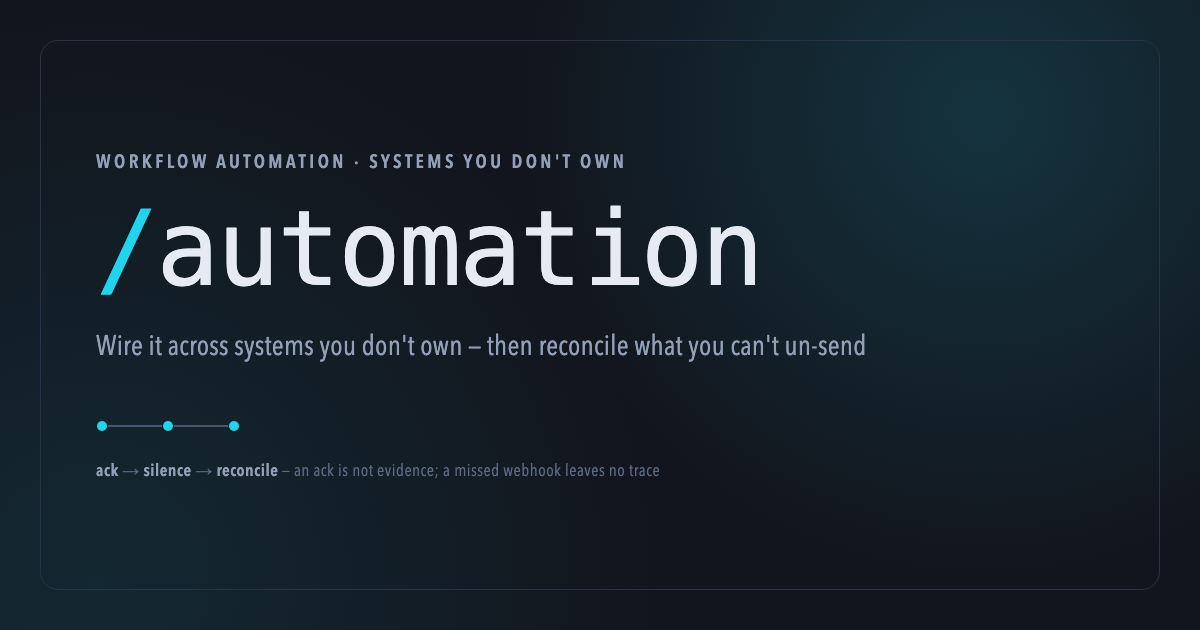
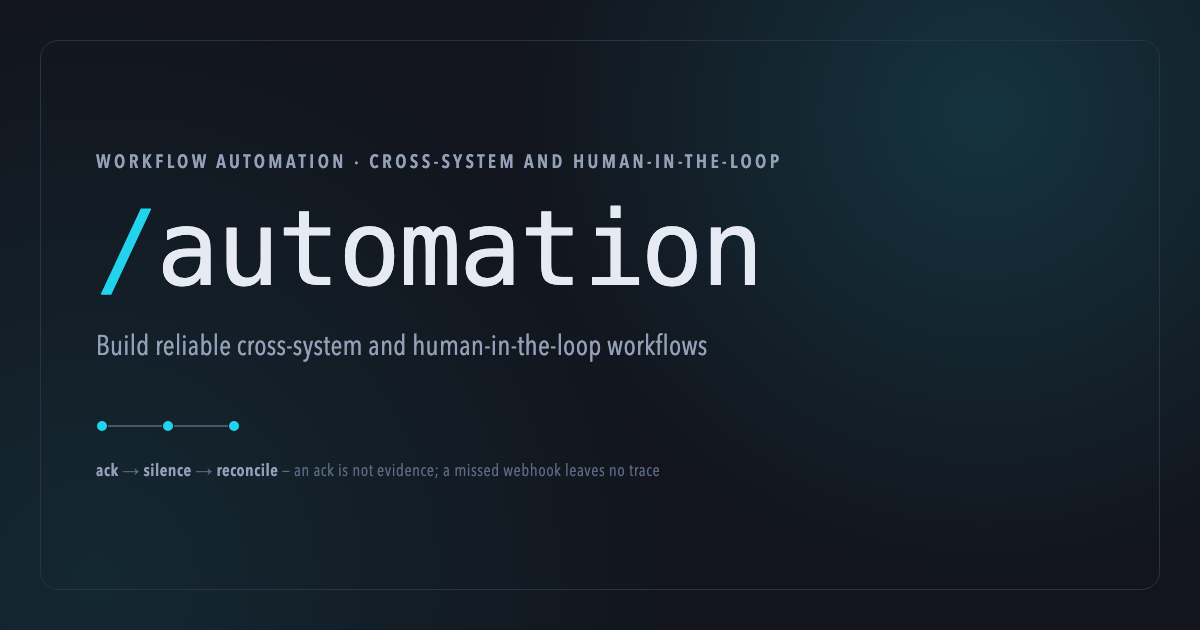
docs(automation): v0.1.2 — reposition storefront and site
Leads with the subject (build reliable cross-system and human-in-the-loop
processes) instead of the backend-boundary argument; names the four platform
tiers once as scope (Zapier/Make, n8n/Windmill/Activepieces/Kestra,
Temporal/Inngest/Restate/Step Functions, cron); introduces the flagship in
plain language before the word reconciliation.

Restores human-in-the-loop as co-equal with cross-system, per the family's
own canonical declaration. No reference file changed.

Claude-Session: https://claude.ai/code/session_011U8C4MVmndcV899s2zieTg

Changed region(s): [[0.0617, 0.5127, 0.74, 0.573], [0.3083, 0.2413, 0.6475, 0.2714]]

diff --git a/site/index.html b/site/index.html
@@ -12,15 +12,15 @@
 <meta name="viewport" content="width=device-width, initial-scale=1, viewport-fit=cover">
 <meta name="theme-color" media="(prefers-color-scheme: light)" content="#f6f7fa">
 <meta name="theme-color" media="(prefers-color-scheme: dark)" content="#12151d">
-<title>automation — Wire it across systems you don't own — then reconcile what you can't un-send</title>
-<meta name="description" content="A faceted agent skill for workflow automation — reconciliation against a vendor's authoritative state, idempotency and compensation, multi-vendor credentials, human approval, triggers, sync, observability, quota, and platform choice. Defaults to a solo operator with no second pair of eyes; the agentic overlay is additive, never assumed. 12 jobs across 4 surfaces plus the overlay and a handoff — flagship is reconciliation, because an ack is not evidence and a webhook that never arrived leaves no trace.">
+<title>automation — build reliable cross-system and human-in-the-loop workflows</title>
+<meta name="description" content="A faceted agent skill for workflow automation — the workflow that fires when a customer upgrades, the nightly sync between two SaaS tools, the refund that waits for someone to approve it, the cron job nobody has checked in six months. Spans hosted iPaaS (Zapier, Make), self-hosted engines (n8n, Windmill, Activepieces, Kestra), code-first durable execution (Temporal, Inngest, Restate, Step Functions), and plain cron. A step may belong to a vendor you cannot deploy to, and a step may be a person — you cannot deploy a fix into someone else's system, and you cannot un-send. 12 jobs across 4 surfaces plus an additive agentic overlay — flagship is reconciliation, proving what actually happened against the vendor's own state.">
 <meta name="robots" content="index, follow">
 <link rel="canonical" href="https://automation-skill.vercel.app/">
 <link rel="icon" href="/favicon.svg" type="image/svg+xml">
 
 <meta property="og:type" content="website">
-<meta property="og:title" content="automation — Wire it across systems you don't own — then reconcile what you can't un-send">
-<meta property="og:description" content="You cannot deploy a fix into someone else's system, and you cannot un-send. 12 jobs across 4 surfaces plus an additive agentic overlay — reconciled against the vendor's own state, never your record of what you told it.">
+<meta property="og:title" content="automation — build reliable cross-system and human-in-the-loop workflows">
+<meta property="og:description" content="The workflow that fires on a customer upgrade, the nightly sync between two tools, the refund waiting on approval, the cron job nobody's checked in months. Spans Zapier/Make, n8n/Windmill, Temporal/Inngest, and cron. A step may belong to a vendor you can't deploy to, and a step may be a person — you cannot deploy a fix into someone else's system, and you cannot un-send.">
 <meta property="og:url" content="https://automation-skill.vercel.app/">
 <meta property="og:image" content="https://automation-skill.vercel.app/og.png">
 <meta property="og:image:width" content="1200">
@@ -28,8 +28,8 @@
 <meta property="og:site_name" content="automation">
 
 <meta name="twitter:card" content="summary_large_image">
-<meta name="twitter:title" content="automation — Wire it across systems you don't own — then reconcile what you can't un-send">
-<meta name="twitter:description" content="Deploy is theirs, not yours. Reconcile against the vendor's own state, never your record of what you told it. Solo/small-team is the default reader; the agentic overlay is additive.">
+<meta name="twitter:title" content="automation — build reliable cross-system and human-in-the-loop workflows">
+<meta name="twitter:description" content="Cross-system processes where a step may belong to a vendor you can't deploy to, and a step may be a person. 12 jobs across 4 surfaces plus an additive agentic overlay — flagship is reconciliation: proving what actually happened, not what a webhook claimed.">
 <meta name="twitter:image" content="https://automation-skill.vercel.app/og.png">
 
 <script type="application/ld+json">
@@ -39,7 +39,7 @@
   "name": "automation",
   "applicationCategory": "DeveloperApplication",
   "operatingSystem": "Claude Code / agent CLIs",
-  "description": "A faceted agent skill for workflow automation — processes spanning systems you do not own. Reconciliation against a vendor's authoritative state (flagship), integration reliability and delivery semantics, compensation and recovery, multi-vendor credential fleets, human approval and timeout policy, trigger design, sync semantics, workflow observability, cost and quota, platform selection, workflow testing, and process capture. Covers hosted iPaaS, self-hosted engine, code-first durable execution, and platform-native surfaces, plus an additive agentic overlay for when a model is a step or the trigger. Defaults to a solo operator or small team with no second pair of eyes. Not for jobs/queues inside a system you control, model cognition, the analytical data plane, deployment and monitoring, or independent verification — those route to backend, ai, data, operate, and quality respectively.",
+  "description": "A faceted agent skill for workflow automation — reliable cross-system and human-in-the-loop processes: the workflow that fires when a customer upgrades, the nightly sync between two SaaS tools, the refund that waits for someone to approve it, the cron job nobody has checked in six months. Reconciliation against a vendor's authoritative state (flagship), integration reliability and delivery semantics, compensation and recovery, multi-vendor credential fleets, human approval and timeout policy, trigger design, sync semantics, workflow observability, cost and quota, platform selection, workflow testing, and process capture. Covers hosted iPaaS, self-hosted engine, code-first durable execution, and platform-native surfaces, plus an additive agentic overlay for when a model is a step or the trigger. Defaults to a solo operator or small team with no second pair of eyes. Not for jobs/queues inside a system you control, model cognition, the analytical data plane, deployment and monitoring, or independent verification — those route to backend, ai, data, operate, and quality respectively.",
   "url": "https://automation-skill.vercel.app/",
   "offers": {
     "@type": "Offer",
@@ -172,7 +172,8 @@
   .tblwrap{overflow-x:auto; border:1px solid var(--line); border-radius:8px; margin-top:20px}
   table{border-collapse:collapse; width:100%; font-size:14px; background:var(--panel)}
   th{font-family:"Avenir Next Condensed","Arial Narrow",system-ui,sans-serif; text-transform:uppercase; letter-spacing:.08em; font-size:12.5px; font-weight:600; text-align:left; color:var(--muted); padding:10px 16px; border-bottom:1px solid var(--line)}
-  td{padding:11px 16px; border-bottom:1px solid var(--line); vertical-align:top; overflow-wrap:break-word; word-break:break-word}
+  td{padding:11px 16px; border-bottom:1px solid var(--line); vertical-align:top; overflow-wrap:break-word}
+  @media (max-width:700px){ .tblwrap table{width:auto; min-width:640px} }
   tr:last-child td{border-bottom:none}
   td code{background:var(--code-bg); padding:1px 6px; border-radius:4px; font-size:12.5px; white-space:nowrap}
   td code a{color:inherit; text-decoration:none}
@@ -338,19 +339,22 @@
 </svg>
 <div class="wrap">
 <header>
-  <div class="eyebrow">an agent skill · workflow automation — the Build stage, spanning what you don't own</div>
+  <div class="eyebrow">an agent skill · workflow automation — cross-system and human-in-the-loop</div>
   <nav class="toplinks" aria-label="external links">
     <a href="https://github.com/gabros20/automation-skill" target="_blank" rel="noopener">GitHub</a>
     <a href="https://github.com/gabros20/automation-skill#install" target="_blank" rel="noopener">Install</a>
     <a href="/llms.txt">llms.txt</a>
   </nav>
   <h1><span class="sl">/</span>automation</h1>
-  <p class="lede">Ask an agent to wire Stripe to your CRM and it writes the webhook handler, watches it
-  return <code>200</code>, and calls the integration done. Nobody checked whether the vendor's side
-  still holds what you think it holds, what a refund actually undoes, or what happens when the
-  approval gate times out at 3am with nobody watching. <b>automation</b> builds the processes that
-  span vendors — credentials, triggers, sync, approval, cost — on the property every technique here
-  has to survive: <b>you cannot deploy a fix into someone else's system, and you cannot un-send.</b></p>
+  <p class="lede"><b>automation</b> builds the workflow that fires when a customer upgrades, the
+  nightly sync between two SaaS tools, the refund that waits for someone to approve it, and the cron
+  job nobody has checked in six months. It owns the decisions, not the click-path: whether to automate
+  a thing at all, which platform to build it on, what triggers it, what order the steps run in, who
+  approves the risky one, and how you learn it stopped — across hosted iPaaS (Zapier, Make),
+  self-hosted engines (n8n, Windmill), code-first durable execution (Temporal, Inngest), and plain
+  cron. Two properties shape every technique here: a step may belong to a vendor you cannot deploy
+  to, and a step may be a person — hence <b>you cannot deploy a fix into someone else's system, and
+  you cannot un-send.</b></p>
   <div class="term" style="margin-top:22px"><span class="c"># natural language — no flags, no fixed pipeline</span>
 <span class="p">/automation</span> the Stripe charge succeeded but the CRM record never got created — was the webhook ever sent?</div>
   <p class="hosts"><span class="hl">runs on</span><span class="ref">Claude Code</span><span>Codex</span><span>Cursor</span><span>Antigravity</span><span>opencode</span><span>Grok Build</span><span>Hermes</span></p>
@@ -608,12 +612,17 @@
 
 <section id="flagship">
   <h2><svg class="lu" aria-hidden="true"><use href="#lu-scale"/></svg>Reconciliation — the flagship</h2>
-  <p>Everything else in this pack assumes a reconciliation loop exists somewhere, or states plainly
-  that it does not. <b>I1 is the spine: reconcile against the vendor's authoritative state, never
-  against your own record of what you told it.</b> A 200 response, a queued job, a webhook
-  subscription you believe is active — none of these are evidence the vendor's side actually holds
-  what you think it holds. A webhook that never arrives leaves no trace in your logs at all — nothing
-  failed loudly, so there is nothing to notice.</p>
+  <p>Ask an agent to wire Stripe to your CRM and it writes the webhook handler, watches it return
+  <code>200</code>, and calls the integration done. Nobody checked whether the vendor's side still
+  holds what you think it holds, what a refund actually undoes, or what happens when the approval
+  gate times out at 3am with nobody watching. Closing that gap — proving what actually happened, not
+  what a 200 response or your own "handled" flag claims happened — is reconciliation, and everything
+  else in this pack assumes a reconciliation loop exists somewhere, or states plainly that it does
+  not. <b>I1 is the spine: reconcile against the vendor's authoritative state, never against your own
+  record of what you told it.</b> A 200 response, a queued job, a webhook subscription you believe is
+  active — none of these are evidence the vendor's side actually holds what you think it holds. A
+  webhook that never arrives leaves no trace in your logs at all — nothing failed loudly, so there is
+  nothing to notice.</p>
   <div class="tblwrap"><table>
     <tr><th>Signal</th><th>What it actually establishes</th><th>What it does <b>not</b></th></tr>
     <tr><td class="job">A 200 response</td><td class="canon">The vendor accepted the request, at that moment</td><td class="prod">That the vendor's side still holds it later, or that nothing downstream reversed it</td></tr>
@@ -875,7 +884,7 @@ README.md · CHANGELOG.md · LICENSE</div>
 </section>
 
 <footer>
-  <span><span class="mono">/automation</span> — Wire it across systems you don't own — then reconcile what you can't un-send</span>
+  <span><span class="mono">/automation</span> — build reliable cross-system and human-in-the-loop workflows</span>
   <span><a href="https://github.com/gabros20/automation-skill">github.com/gabros20/automation-skill</a> · <a href="/llms.txt">llms.txt</a> · MIT</span>
 </footer>
 </div>

diff --git a/site/og-source.html b/site/og-source.html
@@ -50,9 +50,9 @@
 <body>
   <div class="frame"></div>
   <div class="content">
-    <div class="eyebrow">workflow automation · systems you don't own</div>
+    <div class="eyebrow">workflow automation · cross-system and human-in-the-loop</div>
     <h1><span class="sl">/</span>automation</h1>
-    <div class="sub">Wire it across systems you don't own — then reconcile what you can't un-send</div>
+    <div class="sub">Build reliable cross-system and human-in-the-loop workflows</div>
     <div class="chain">
       <svg width="420" height="34" viewBox="0 0 420 34" aria-hidden="true">
         <circle cx="6" cy="17" r="5" fill="#22d3ee"/>

diff --git a/README.md b/README.md
@@ -1,84 +1,18 @@
 # automation — Workflow Automation
 
-**Wire it across systems you don't own — then reconcile what you can't un-send.**
+Build reliable cross-system and human-in-the-loop processes: the workflow that fires when a customer
+upgrades, the nightly sync between two SaaS tools, the refund that waits for someone to approve it, the
+cron job nobody has checked in six months.
 
-`automation` is the **Build** stage of the [Digital Product Skills](https://github.com/gabros20) family, a
-peer of `frontend`/`backend`/`data`/`ai`, for building business processes that span systems you cannot
-deploy to: Stripe, a CRM, email, Slack, a partner's API, a human approver. The distinguishing property
-is the substrate. `backend` owns async work inside a system you control — your queue, your workers, your
-database, deployable and testable end to end. `automation` owns the case where most of the steps belong
-to vendors you cannot deploy to, cannot unit-test, and cannot roll back — where the API changes with no
-deploy on your side, the quota belongs to someone else, and a person clicking "approve" is a node in the
-graph.
+It spans hosted iPaaS (Zapier, Make), self-hosted engines (n8n, Windmill, Activepieces, Kestra),
+code-first durable execution (Temporal, Inngest, Restate, Step Functions), and plain cron. `automation`
+owns the **decisions**, not the click-path: whether to automate a thing at all, which of the four
+platform tiers to build it on, what triggers it, what order the steps run in, what happens when one
+fails halfway, who approves the risky one, and how you find out it stopped.
 
-**The default reader is one person, or a small team, with no second pair of eyes.** That matters more
-here than it looks: nearly every control this domain teaches assumes a counterparty. Approval assumes an
-approver who is not the requester. Reconciliation assumes a reconciler who is not the recorder. The
-*functions* survive at n=1; the second *body* does not, and the substitute is an independent source, a
-clock, or a rule committed to in advance.
-
-`automation` writes workflow definitions, integration code, connector configuration and functions. It
-does **not** author the business rule — `product` and the commercial skills own that; when no upstream
-rule exists, it is captured explicitly rather than invented silently. It works standalone when invoked
-alone, consumes compatible upstream artifacts without silently overriding them, and recommends adjacent
-skills without invoking them automatically.
-
-## Four things this pack does differently
-
-**The wedge is synthesis, not discovery, and it says so rather than dressing itself up.** Almost nothing
-in this pack is unknown — it is known in five places that have never cited each other. Distributed
-systems teaches idempotency and saga **for services you own**. Gregor Hohpe's *Conversation Patterns*
-teaches compensation **for parties you don't** — and is CC BY, twenty years old, and largely unread.
-Fintech teaches reconciliation exhaustively **as a ledger control** and never generalizes it past money
-movement. Enterprise GRC (COSO, maker-checker, delegation of authority) teaches approval authority at
-**meeting pace**, decades deep, and never answers what a system should decide at 3am. The 2026 agentic
-wave teaches guardrails **for models**. A reader wiring their business across vendors they cannot deploy
-to has to assemble one discipline out of five literatures that were never introduced to each other. That
-assembly is the pack.
-
-**Reconciliation is the flagship, and four independent channels converge on it without ever citing each
-other.** Fintech owns the *word* and never generalizes it. General integration engineering teaches the
-*mechanism* — poll a provider on a schedule to catch what a webhook missed — and never uses the word.
-Hohpe names it exactly once in his 25-pattern catalogue, in a 2005 aside, and then walked away from it
-for twenty years. And it is absent across every other shipped pack in this family. [reconciliation.md](skills/automation/references/reconciliation.md)
-states the spine plainly: **reconcile against the vendor's authoritative state, never against your own
-record of what you told it** — an ack is not evidence, and a webhook that never arrived leaves no trace
-in your logs at all.
-
-**The n=1 approval-and-reconciliation recursion is resolved, not just named.** COSO's own escape hatch
-for missing segregation of duties *is* independent reconciliation — but reconciliation, as fintech
-practices it, itself demands a reconciler who is not the recorder. For one person, the escape hatch leads
-back into the room it was supposed to get you out of. The resolution this pack ships: independence has to
-come from the source, the clock, or a rule committed to in advance — never from a second person who does
-not exist. The function survives; the second body does not need to.
-
-**Hohpe's vocabulary is used, credited — and the pack is explicit about where its own claim stops.**
-Quick Acknowledgment, Compensating Action, Heartbeat, Lease, and half a dozen more already have names in
-the *Conversation Patterns* catalogue, and this pack cites the specific pattern page rather than
-reinventing a house term. But Hohpe's Quick Acknowledgment pattern never mentions duplicates or retries —
-the reasoning that slow acknowledgment causes duplicate side effects is this pack's own addition, not
-his, and it says so rather than letting a real citation quietly absorb an uncredited claim.
-
-## What it does
-
-A **faceted router**: pick one primary job × one base surface (the agentic overlay stacks additively on
-top).
-
-**Primary jobs** — **reconciliation ⭐** · integration-reliability · compensation-and-recovery ·
-credentials-and-connections · approval-and-authority · trigger-design · sync-semantics ·
-workflow-observability · cost-and-quota · platform-selection · workflow-testing · process-capture.
-
-**Surfaces** — hosted iPaaS (default) · self-hosted engine · code-first durable execution ·
-platform-native · **agentic** (additive).
-
-Two grounded numbers stand in for the pack's habit of naming its source rather than repeating a folk
-figure. Google's own OAuth documentation caps refresh tokens at **100 per account per client ID**, and
-reaching the cap invalidates the oldest token **"without warning"** — two vendor blogs report the cap as
-50; both are wrong, and this pack cites Google's own docs instead. And Salesforce's `getDeleted()`
-delete-tracking API covers **no more than 15 days**, with a background purge that can invalidate the
-window *early* and return `INVALID_REPLICATION_DATE` — whose documented recovery is a full re-sync, not
-a resumable cursor. Neither number is safe to memorize past this quarter; both carry a re-verify pointer
-in the reference that cites them.
+Two properties shape every technique in this pack: **a step may belong to a vendor you cannot deploy
+to, and a step may be a person.** Hence the through-line — you cannot deploy a fix into someone else's
+system, and you cannot un-send.
 
 ## Install
 
@@ -103,6 +37,18 @@ $automation we're moving off Zapier onto n8n — tell me what actually breaks
 
 $automation design a Stripe-to-CRM sync that survives a missed webhook
 ```
+
+## What it does
+
+A **faceted router**: pick one primary job × one base surface (the agentic overlay stacks additively on
+top).
+
+**Primary jobs** — **reconciliation ⭐** · integration-reliability · compensation-and-recovery ·
+credentials-and-connections · approval-and-authority · trigger-design · sync-semantics ·
+workflow-observability · cost-and-quota · platform-selection · workflow-testing · process-capture.
+
+**Surfaces** — hosted iPaaS (default) · self-hosted engine · code-first durable execution ·
+platform-native · **agentic** (additive).
 
 ## Route by job
 
@@ -133,6 +79,62 @@ $automation design a Stripe-to-CRM sync that survives a missed webhook
 
 Plus [handoff](skills/automation/references/handoff.md) — the `handoff.yaml` companion for downstream
 work, typically to `operate` to run and watch the workflow, or to `quality` to verify it before it ships.
+
+## Four things this pack does differently
+
+**The substrate, not the industry, is the boundary — and the default reader has no second pair of
+eyes.** `backend` owns async work inside a system you control: your queue, your workers, your database,
+deployable and testable end to end. `automation` starts where most of the steps belong to vendors you
+cannot deploy to, cannot unit-test, and cannot roll back — the API changes with no deploy on your side,
+the quota belongs to someone else, and a person clicking "approve" is a node in the graph. That matters
+more than it looks, because nearly every control this domain teaches assumes a counterparty: approval
+assumes an approver who is not the requester, reconciliation assumes a reconciler who is not the
+recorder. The *functions* survive at n=1; the second *body* does not, and the substitute is an
+independent source, a clock, or a rule committed to in advance.
+
+**The wedge is synthesis, not discovery, and it says so rather than dressing itself up.** Almost nothing
+in this pack is unknown — it is known in five places that have never cited each other. Distributed
+systems teaches idempotency and saga **for services you own**. Gregor Hohpe's *Conversation Patterns*
+teaches compensation **for parties you don't** — and is CC BY, twenty years old, and largely unread.
+Fintech teaches reconciliation exhaustively **as a ledger control** and never generalizes it past money
+movement. Enterprise GRC (COSO, maker-checker, delegation of authority) teaches approval authority at
+**meeting pace**, decades deep, and never answers what a system should decide at 3am. The 2026 agentic
+wave teaches guardrails **for models**. A reader wiring their business across vendors they cannot deploy
+to has to assemble one discipline out of five literatures that were never introduced to each other. That
+assembly is the pack.
+
+**Did what you think happened actually happen? That plain question is the pack's flagship — and four
+independent channels converge on the answer, under the name reconciliation, without ever citing each
+other.** Fintech owns the *word* and never generalizes it. General integration engineering teaches the
+*mechanism* — poll a provider on a schedule to catch what a webhook missed — and never uses the word.
+Hohpe names it exactly once in his 25-pattern catalogue, in a 2005 aside, and then walked away from it
+for twenty years. And it is absent across every other shipped pack in this family. [reconciliation.md](skills/automation/references/reconciliation.md)
+states the spine plainly: **reconcile against the vendor's authoritative state, never against your own
+record of what you told it** — an ack is not evidence, and a webhook that never arrived leaves no trace
+in your logs at all.
+
+**The n=1 approval-and-reconciliation recursion is resolved, not just named.** COSO's own escape hatch
+for missing segregation of duties *is* independent reconciliation — but reconciliation, as fintech
+practices it, itself demands a reconciler who is not the recorder. For one person, the escape hatch leads
+back into the room it was supposed to get you out of. The resolution this pack ships: independence has to
+come from the source, the clock, or a rule committed to in advance — never from a second person who does
+not exist. The function survives; the second body does not need to.
+
+**Hohpe's vocabulary is used, credited — and the pack is explicit about where its own claim stops.**
+Quick Acknowledgment, Compensating Action, Heartbeat, Lease, and half a dozen more already have names in
+the *Conversation Patterns* catalogue, and this pack cites the specific pattern page rather than
+reinventing a house term. But Hohpe's Quick Acknowledgment pattern never mentions duplicates or retries —
+the reasoning that slow acknowledgment causes duplicate side effects is this pack's own addition, not
+his, and it says so rather than letting a real citation quietly absorb an uncredited claim.
+
+Two grounded numbers stand in for the pack's habit of naming its source rather than repeating a folk
+figure. Google's own OAuth documentation caps refresh tokens at **100 per account per client ID**, and
+reaching the cap invalidates the oldest token **"without warning"** — two vendor blogs report the cap as
+50; both are wrong, and this pack cites Google's own docs instead. And Salesforce's `getDeleted()`
+delete-tracking API covers **no more than 15 days**, with a background purge that can invalidate the
+window *early* and return `INVALID_REPLICATION_DATE` — whose documented recovery is a full re-sync, not
+a resumable cursor. Neither number is safe to memorize past this quarter; both carry a re-verify pointer
+in the reference that cites them.
 
 ## Outputs
 
@@ -176,7 +178,7 @@ docs/                installation, usage, and recipes
 
 - [docs/installation.md](docs/installation.md) · [docs/usage.md](docs/usage.md) ·
   [docs/recipes.md](docs/recipes.md)
-- [CHANGELOG.md](CHANGELOG.md) — release history (current: v0.1.0)
+- [CHANGELOG.md](CHANGELOG.md) — release history (current: v0.1.2)
 - [SOURCES.md](skills/automation/SOURCES.md) — source attribution and license posture, including the
   four-clause licensing rule this skill follows and the numbers it refuses to ship
 - [CONTRIBUTING.md](CONTRIBUTING.md) — local validation (`scripts/lint-skill`, `scripts/check-sync`)

diff --git a/docs/usage.md b/docs/usage.md
@@ -28,18 +28,29 @@ clients use an `@` mention, a skill tool, or natural-language activation.
 
 ## Mission and boundary
 
-`automation` builds processes that span systems, schedules, events and human approvals — and makes them
-survive the fact that **you cannot deploy a fix into someone else's system, and you cannot un-send.** The
-distinguishing property is the substrate: `backend` owns async work inside a system you control — your
-queue, your workers, your database, deployable and testable end to end; `automation` owns the case where
-most of the steps belong to vendors you cannot deploy to, cannot unit-test, and cannot roll back — where
-the API changes with no deploy on your side, the quota belongs to someone else, and a person clicking
-"approve" is a node in the graph. **The default reader is one person, or a small team, with no second
-pair of eyes** — nearly every control this domain teaches assumes a counterparty (an approver who is not
-the requester, a reconciler who is not the recorder); the *functions* survive at n=1, the second *body*
-does not, and the substitute is an independent source, a clock, or a rule committed to in advance (I6).
-`automation` writes workflow definitions, integration code, connector configuration and functions. It
-does **not** author the business rule — `product` and the commercial skills own that; when no upstream
+`automation` builds reliable cross-system and human-in-the-loop processes — the workflow that fires when
+a customer upgrades, the nightly sync between two SaaS tools, the refund that waits for someone to
+approve it, the cron job nobody has looked at in six months. It runs across hosted iPaaS (Zapier, Make),
+self-hosted engines (n8n, Windmill, Activepieces, Kestra), code-first durable execution (Temporal,
+Inngest, Restate, Step Functions), and plain cron — the techniques are the same; the surfaces below say
+how each one reshapes them.
+
+This pack owns the **decisions**, not the click-path: whether to automate a thing at all, which platform
+tier to build it on, what triggers it, what order the steps run in, what happens when one fails halfway,
+who approves the risky one, and how you find out it stopped. Two properties define the work: **a step
+may belong to a vendor you cannot deploy to, and a step may be a person.** Hence the through-line — you
+cannot deploy a fix into someone else's system, and you cannot un-send.
+
+The distinguishing property is the substrate. `backend` owns async work inside a system you control —
+your queue, your workers, your database, deployable and testable end to end; `automation` owns the case
+where most of the steps belong to vendors you cannot deploy to, cannot unit-test, and cannot roll back —
+where the API changes with no deploy on your side, the quota belongs to someone else, and a person
+clicking "approve" is a node in the graph. **The default reader is one person, or a small team, with no
+second pair of eyes** — nearly every control this domain teaches assumes a counterparty (an approver who
+is not the requester, a reconciler who is not the recorder); the *functions* survive at n=1, the second
+*body* does not, and the substitute is an independent source, a clock, or a rule committed to in advance
+(I6). `automation` writes workflow definitions, integration code, connector configuration and functions.
+It does **not** author the business rule — `product` and the commercial skills own that; when no upstream
 rule exists, capture it explicitly ([process-capture](../skills/automation/references/process-capture.md))
 rather than inventing one silently. It works standalone when invoked alone, uses supplied upstream
 artifacts without silently overriding them, recommends adjacent skills for work it doesn't own, and never

diff --git a/CHANGELOG.md b/CHANGELOG.md
@@ -10,6 +10,25 @@ The release procedure synchronizes `.codex-plugin/plugin.json`, this changelog, 
 ### Added
 - Queue unreleased changes here.
 
+## [0.1.2] — 2026-07-27
+
+### Changed
+
+- **Repositioned the storefront — README, docs/usage.md, .codex-plugin/plugin.json.** A reader who
+  read only the README and the site could not tell this was the skill for building workflow
+  automations (n8n/Zapier/Make/Temporal/cron). Three faults, all in prose order, none in the pack
+  itself: the README opened with the `backend` boundary argument (relevant only to the question "why
+  isn't this `backend`?"), it led with the term "reconciliation" before the plain question it answers,
+  and the tool names were buried inside the surfaces table where a scanning reader never reached them.
+  The opening now states the subject first (cross-system and human-in-the-loop processes), names the
+  four platform tiers once as scope, and states the two defining properties — a step may belong to a
+  vendor you cannot deploy to, a step may be a person — as the rationale for the through-line rather
+  than the headline. The `backend`-boundary argument and the n=1-reader point moved out of the lead into
+  "Four things this pack does differently," where the reconciliation paragraph now opens with "did what
+  you think happened actually happen?" before naming the term. `docs/usage.md`'s "Mission and boundary"
+  section was reordered to match. No claim, number, or citation changed; reconciliation remains the
+  flagship.
+
 ## [0.1.1] — 2026-07-27
 
 ### Fixed
